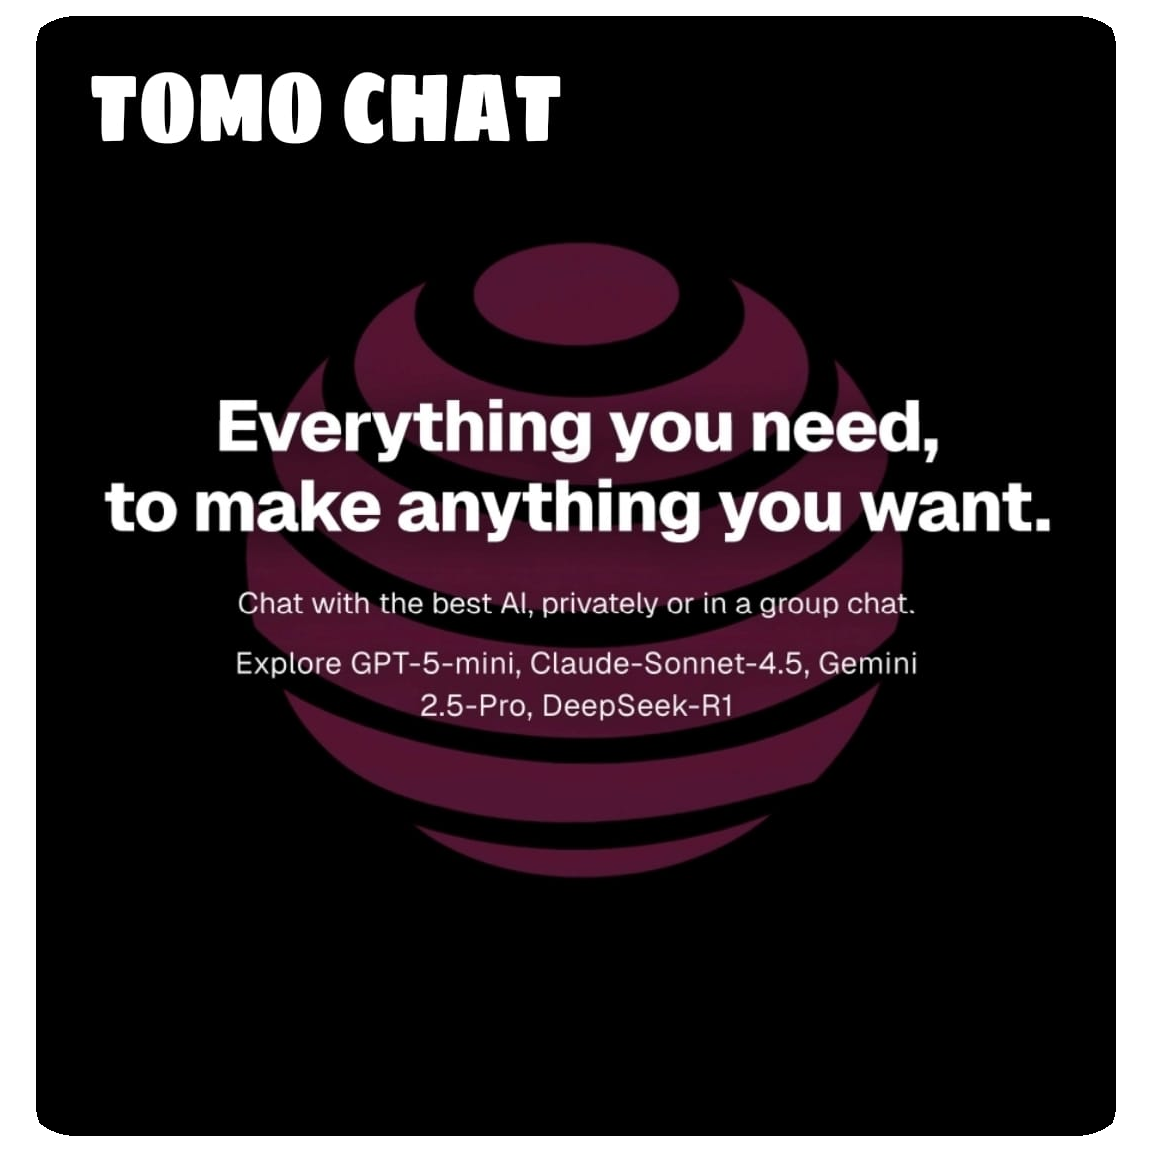
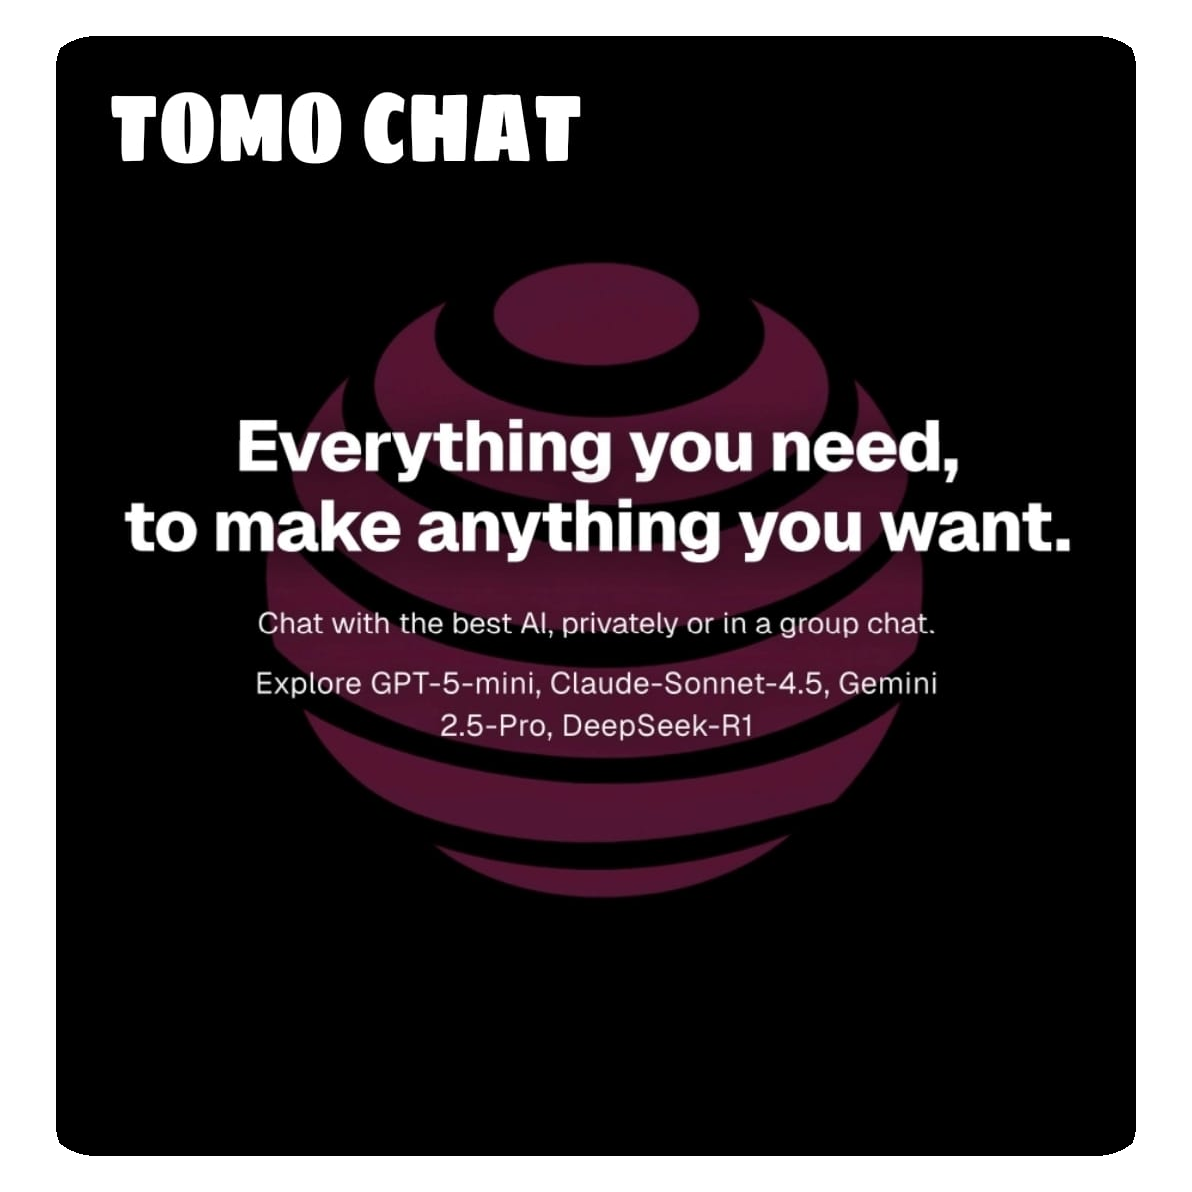
Update login pages to use toll.jpeg with proper gaps
- Updated sign-in and sign-up pages to use /toll.jpeg
- Changed hero image styling from inset-0 to inset-8 for visible gaps
- Added rounded-3xl and shadow-2xl for better visual presentation
- Image now has gaps on all sides instead of filling entire container
- toll.jpeg already has white border so no additional processing needed

Changed region(s): [[0.0938, 0.1875, 0.9062, 0.7812], [0.0312, 0.0, 0.9688, 1.0]]

diff --git a/src/components/auth/new-sign-up-wrapper.tsx b/src/components/auth/new-sign-up-wrapper.tsx
@@ -75,7 +75,7 @@ export default function NewSignUpWrapper({
           ? "Set up your administrator account to get started with TOMO Chat."
           : "Create your account and start conversing with advanced AI."
       }
-      heroImageSrc="/meowl.png"
+      heroImageSrc="/toll.jpeg"
       testimonials={testimonials}
       onSubmit={emailAndPasswordEnabled ? handleSignUp : undefined}
       onGoogleSignIn={socialAuthenticationProviders.includes("google") ? handleGoogleSignUp : undefined}

diff --git a/src/components/auth-page.tsx b/src/components/auth-page.tsx
@@ -156,7 +156,7 @@ export const AuthPage: React.FC<AuthPageProps> = ({
       {heroImageSrc && (
         <section className="hidden md:flex flex-1 relative overflow-hidden">
           <div 
-            className="absolute inset-0 bg-cover bg-center bg-no-repeat"
+            className="absolute inset-8 bg-cover bg-center bg-no-repeat rounded-3xl shadow-2xl"
             style={{ backgroundImage: `url(${heroImageSrc})` }}
           ></div>
           {testimonials.length > 0 && (

diff --git a/src/components/auth/new-sign-in-wrapper.tsx b/src/components/auth/new-sign-in-wrapper.tsx
@@ -114,7 +114,7 @@ export default function NewSignInWrapper({
         </div>
       }
       description="Sign in to continue your conversations and unlock powerful AI features."
-      heroImageSrc="/meowl.png"
+      heroImageSrc="/toll.jpeg"
       testimonials={testimonials}
       onSubmit={emailAndPasswordEnabled ? handleSignIn : undefined}
       onGoogleSignIn={socialAuthenticationProviders.includes("google") ? handleGoogleSignIn : undefined}

diff --git a/scripts/add-image-border.py b/scripts/add-image-border.py
@@ -108,13 +108,13 @@ def main():
         print(f"Error: Input file not found: {input_path}")
         return
     
-    # Add curved border with white color (more stylish and better fitted)
+    # Add curved border with mild white color (subtle and stylish)
     add_curved_border(
         input_path=input_path,
         output_path=output_path,
-        border_width=8,  # Reduced to 8px white border for better fit
-        corner_radius=60, # More circular for perfect round appearance
-        border_color=(255, 255, 255, 255)  # White border
+        border_width=5,  # Very thin border for subtle effect
+        corner_radius=60, # Perfectly circular
+        border_color=(255, 255, 255, 180)  # Mild white with transparency
     )
 
 if __name__ == "__main__":
